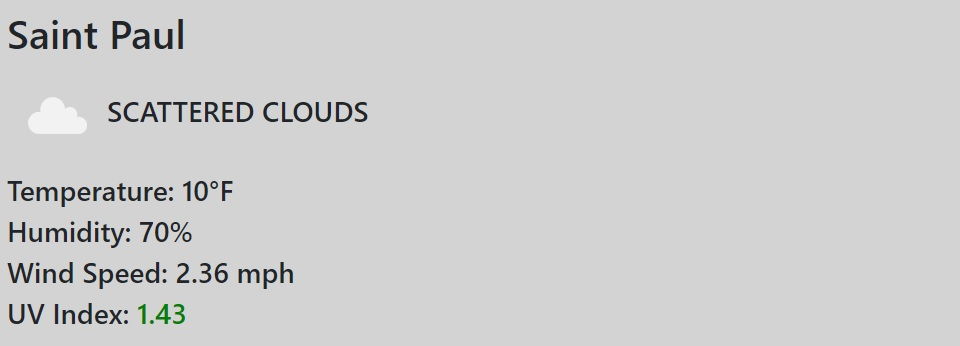
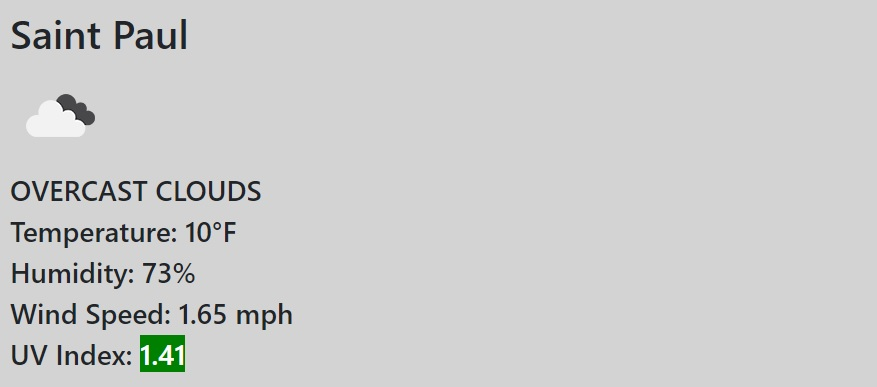
updated readme and display of current weather

diff --git a/java.js b/java.js
@@ -57,9 +57,9 @@ function cityWeather() {
         var newImage = $('<img>')
         var iconURL = "https://openweathermap.org/img/wn/" + forecastIcon + "@2x.png";
         
-        $('#current-city-condition').html((forecast).toUpperCase());
+        $('#current-city-condition').text((forecast).toUpperCase());
         newImage.attr('src', iconURL);
-        $('#current-city-condition').prepend(newImage);
+        $('#current-city-icon').html(newImage);
 
         var tempK = response.list[0].main.temp;
         var tempF = Math.round((tempK - 273.15) * 1.80 + 32);
@@ -123,9 +123,9 @@ function displayWeather(){
         var newImage = $('<img>')
         var iconURL = "https://openweathermap.org/img/wn/" + forecastIcon + "@2x.png";
 
-        $('#current-city-condition').html((forecast).toUpperCase());
+        $('#current-city-condition').text((forecast).toUpperCase());
         newImage.attr('src', iconURL);
-        $('#current-city-condition').prepend(newImage);
+        $('#current-city-icon').html(newImage);
 
         var tempK = response.list[0].main.temp;
         var tempF = Math.round((tempK - 273.15) * 1.80 + 32);

diff --git a/index.html b/index.html
@@ -28,6 +28,7 @@
             <div class="col-8" id="cities-display">
                 <div id="current-weather">
                     <h1><span id="current-city-weather">City name</span></h2>
+                    <h3 id="current-city-icon"></h3>
                     <h3><span id="current-city-condition"></span></h3>
                     <h3>Temperature: <span id="current-city-temp"></span></span></h3>
                     <h3>Humidity: <span id="current-city-humitidy"></span></span></h3>

diff --git a/README.md b/README.md
@@ -1,11 +1,14 @@
 # weatherAPI
-The goal of this project is to create a weather app using a weather API. When the page is loaded, you see a search bar.  Type in the city and that will append a button underneath a search bar.  When you type in another city, it adds that city to the list of previously searched cities.  
+The goal of this project is to create a weather app using a weather API. The scenario is to design an app for a traveler who will want to visit multiple cities.  When the page is loaded, you see a search bar.  You will also notice that the current date is displayed on the top navigation bar.  This date is updated using momentjs.com.  
 
-When you click on the button for a previous result, it will update the date and display the current weather for that particular city as shown in the screen shot below.
+![Weather API](./assets/WeatherAPI.jpg)
 
-![City Weather Display](./assets/currentCity.jpg)
+Type in the city and hit the search icon.  This will display the city name, weather conditions, humidity, wind speed and UV index.  It will also update the 5 day forecast to help with any planning while visiting that city.  To help with travel plans, the name of that city that will append as a button underneath a search bar to make it easy to recall that information.  Clicking that button will update the page with that particular cities information.  
 
-The font color for the UV index is updated to indictate the level of risk as rated by the World Health Organization.  A visual representation of the color scheme is below.
+![finished weather API](./assets/finishedWeatherAPI.jpg)
+
+
+You may notice that the UV index color changes depending on the value. A visual representation of the color scheme is below.  The chart is from the World Health Organization for UV index.
 
 ![WHO UV Index](./assets/UVIndex.jpg)
 
